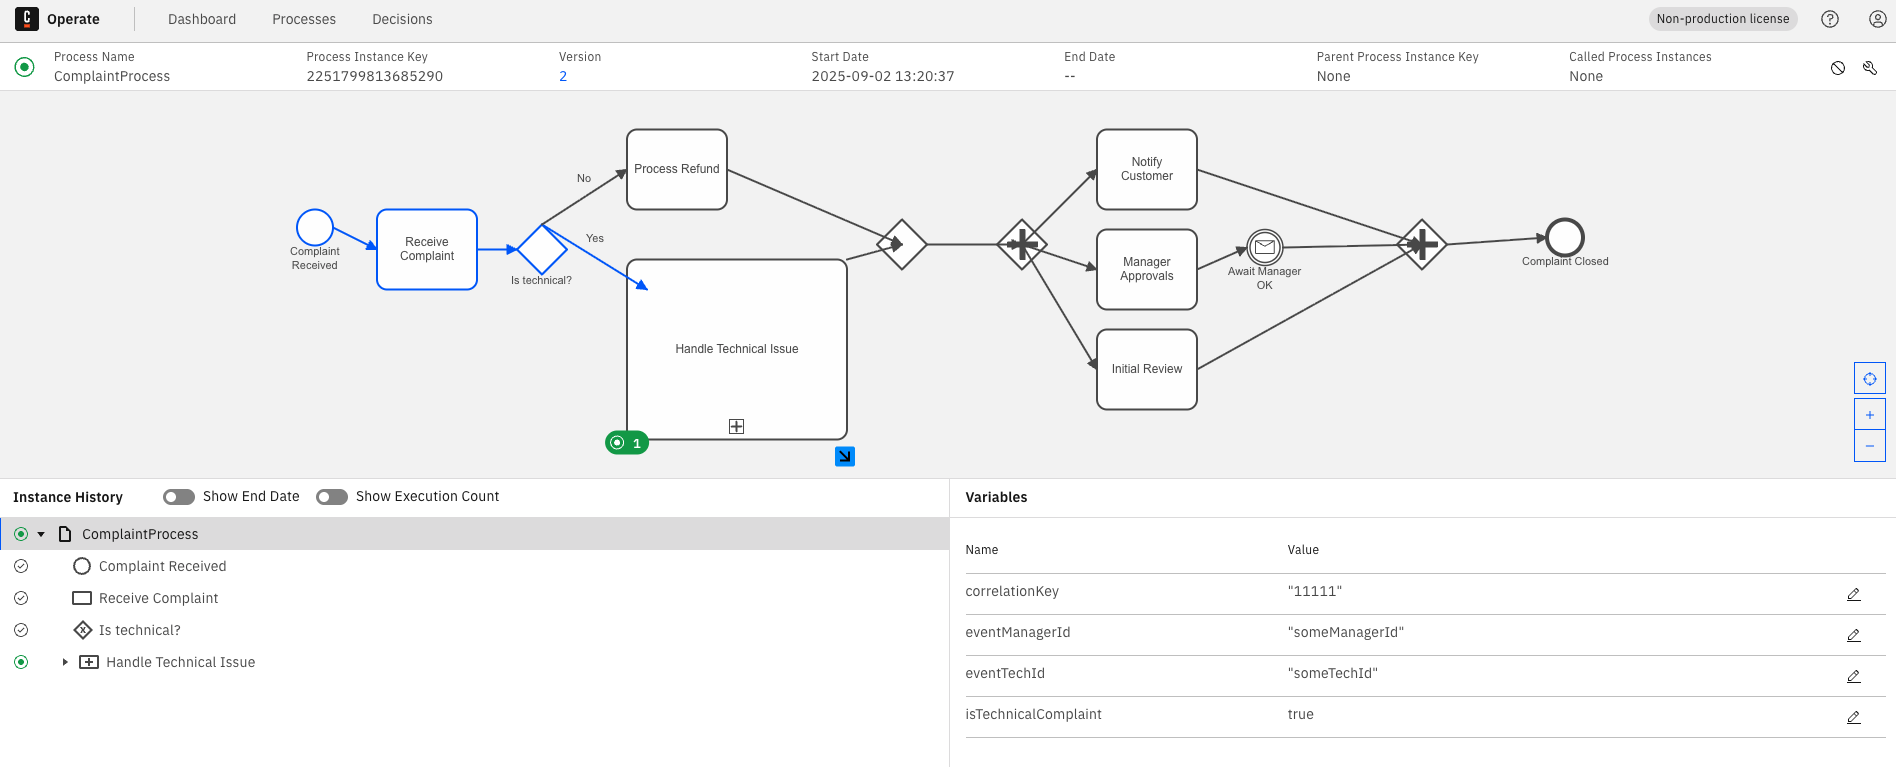
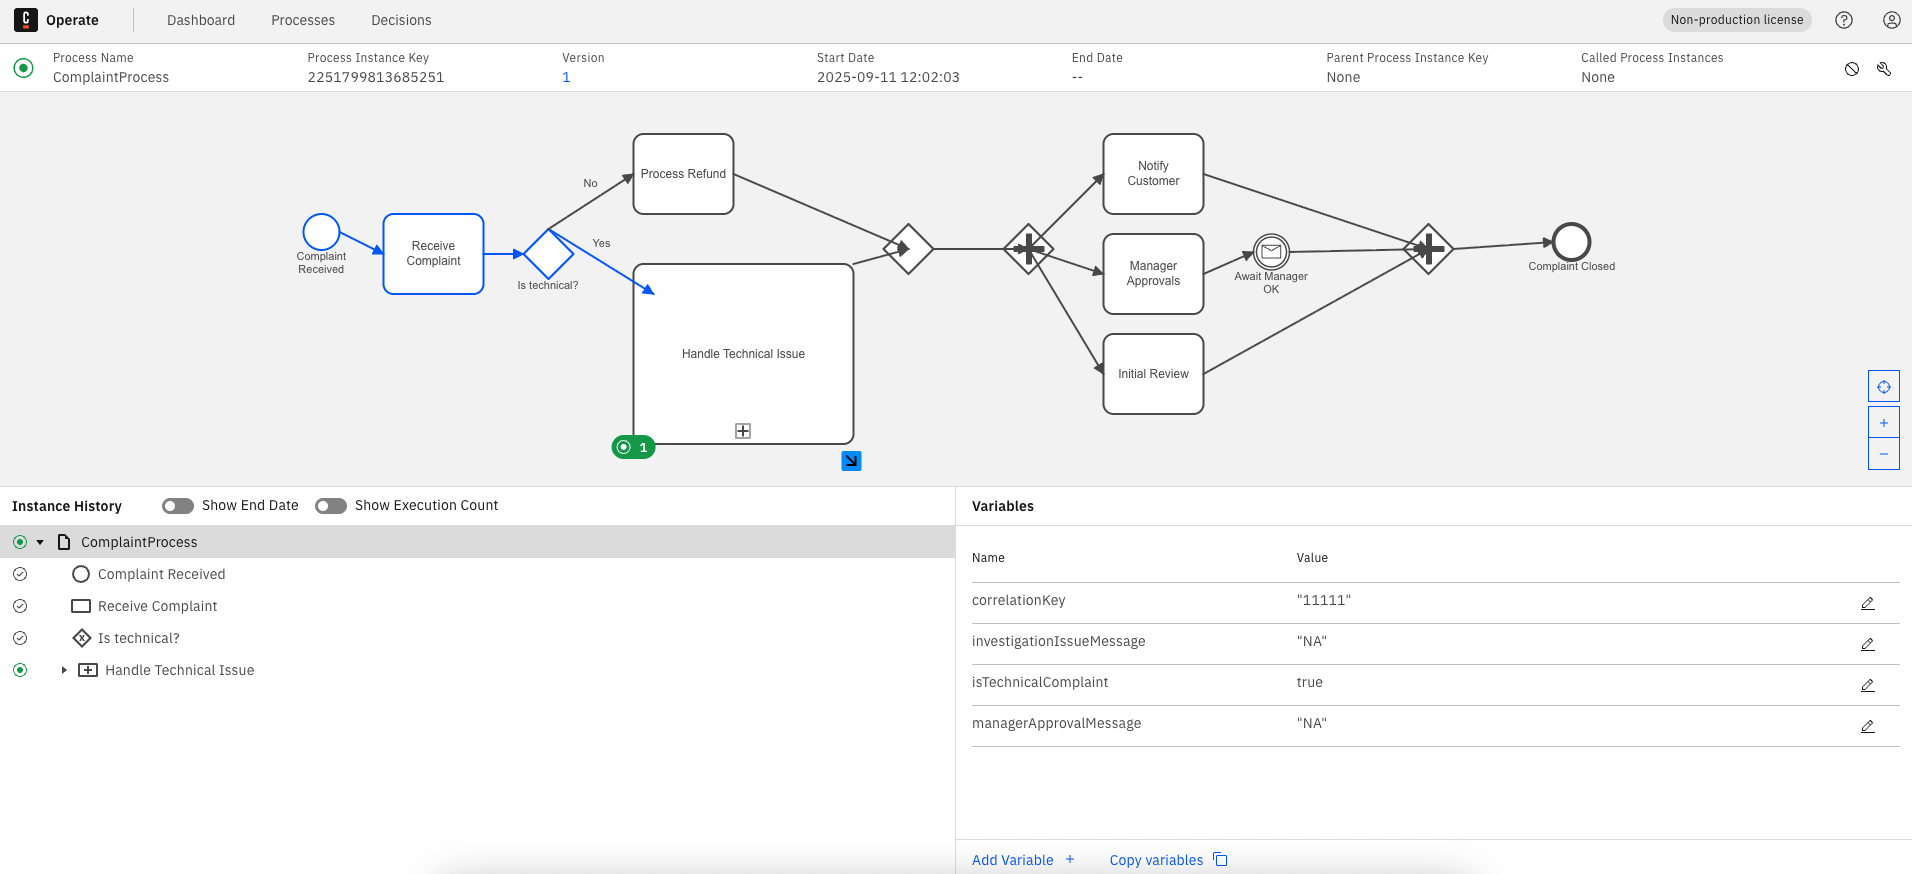
added external signals for Camunda

diff --git a/README.md b/README.md
@@ -95,8 +95,7 @@ This BPMN process models the handling of customer complaints. It coordinates act
 ### 1. Clone the repository
 
 ```bash
-git clone https://github.com/<your-username>/bpmn-demo-comparison.git
-cd bpmn-models
+git clone https://github.com/hifly81/bpmn-demo-comparison.git
 ```
 
 ### 2. Run the environments separately
@@ -136,7 +135,7 @@ docker run --rm --network camunda_camunda-platform \
   sitapati/zbctl \
   --insecure \
   --address zeebe:26500 \
-  create instance ComplaintProcess --variables '{"isTechnicalComplaint": true, "correlationKey": "11111", "eventTechId": "someTechId", "eventManagerId": "someManagerId"}'
+  create instance ComplaintProcess --variables '{"isTechnicalComplaint": true, "correlationKey": "11111", "investigationIssueMessage": "NA", "managerApprovalMessage": "NA"}'
 ```
 
 Connect to Operate: http://localhost:8081 to interact with the process.
@@ -195,11 +194,33 @@ Each engine exposes an API to send signals/messages. Below are sample `curl` com
 
 ### Camunda 8 (Zeebe)
 
-![wip.png](img/wip.png)
+Signal Technical Fix Complete:
+
+```bash
+docker run --rm --network camunda_camunda-platform \
+sitapati/zbctl \
+--insecure \
+--address zeebe:26500 \
+publish message TechnicalFixComplete \
+--correlationKey "11111" \
+--variables '{"investigationIssueMessage": "Investigation OK"}'
+```
+
+Signal Message Await Manager OK:
+
+```bash
+docker run --rm --network camunda_camunda-platform \
+sitapati/zbctl \
+--insecure \
+--address zeebe:26500 \
+publish message ManagerApproval \
+--correlationKey "11111" \
+--variables '{"managerApprovalMessage": "Approved"}'
+```
 
 ### jBPM
 
-Signal Message Await Fix:
+Signal Technical Fix Complete:
 
 ```bash
 docker exec jbpm-bpm curl -u wbadmin:wbadmin -H "Content-Type: application/json" -X POST http://localhost:8080/kie-server/services/rest/server/containers/Complaint_1.0.0/signals/TechnicalFixComplete -d '{"investigationIssueMessage": "Investigation OK"}'
